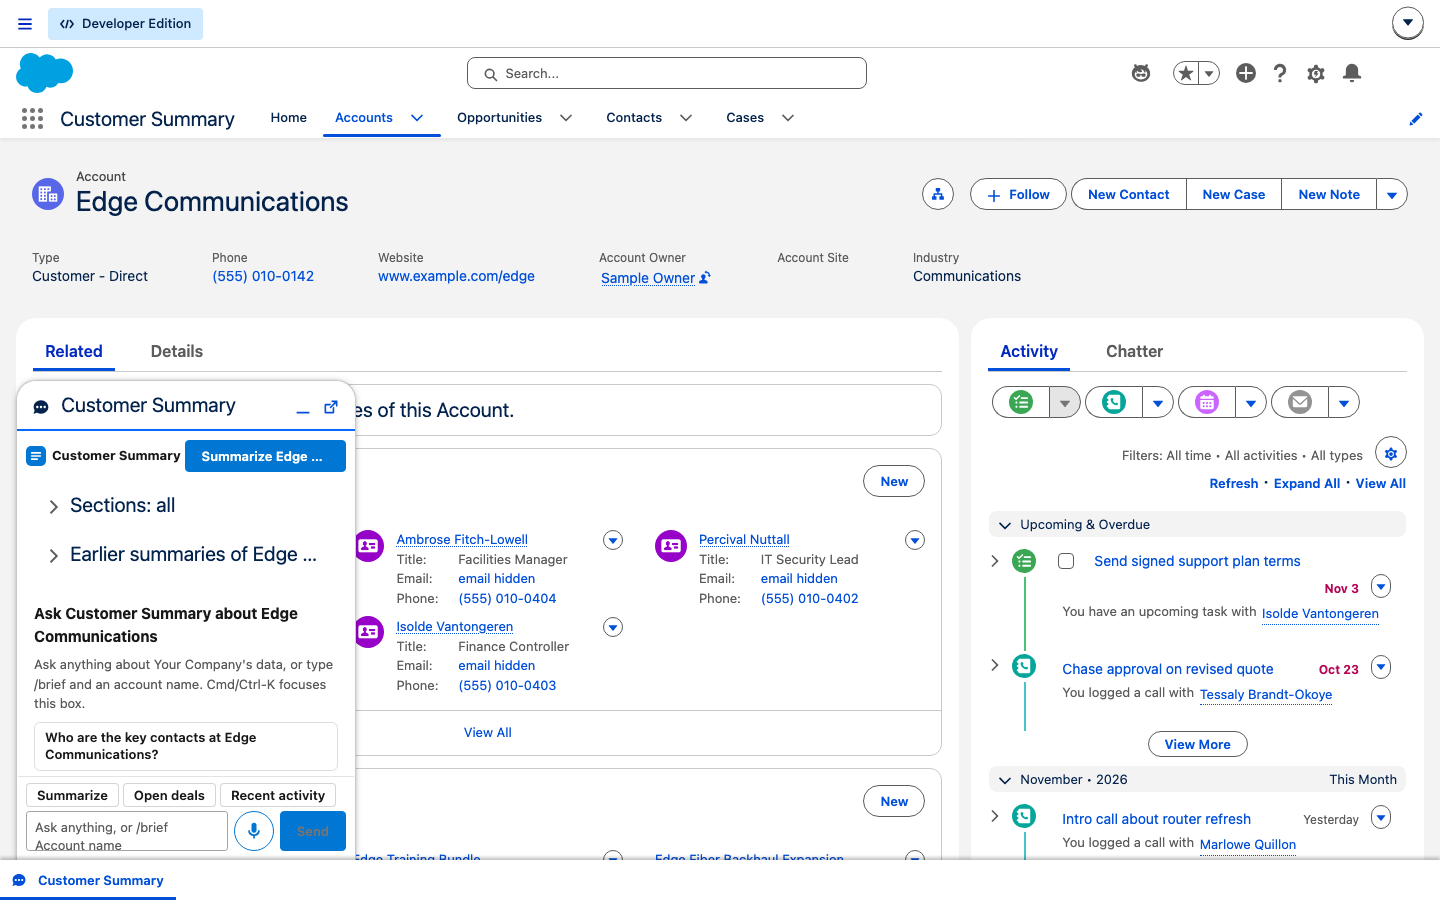
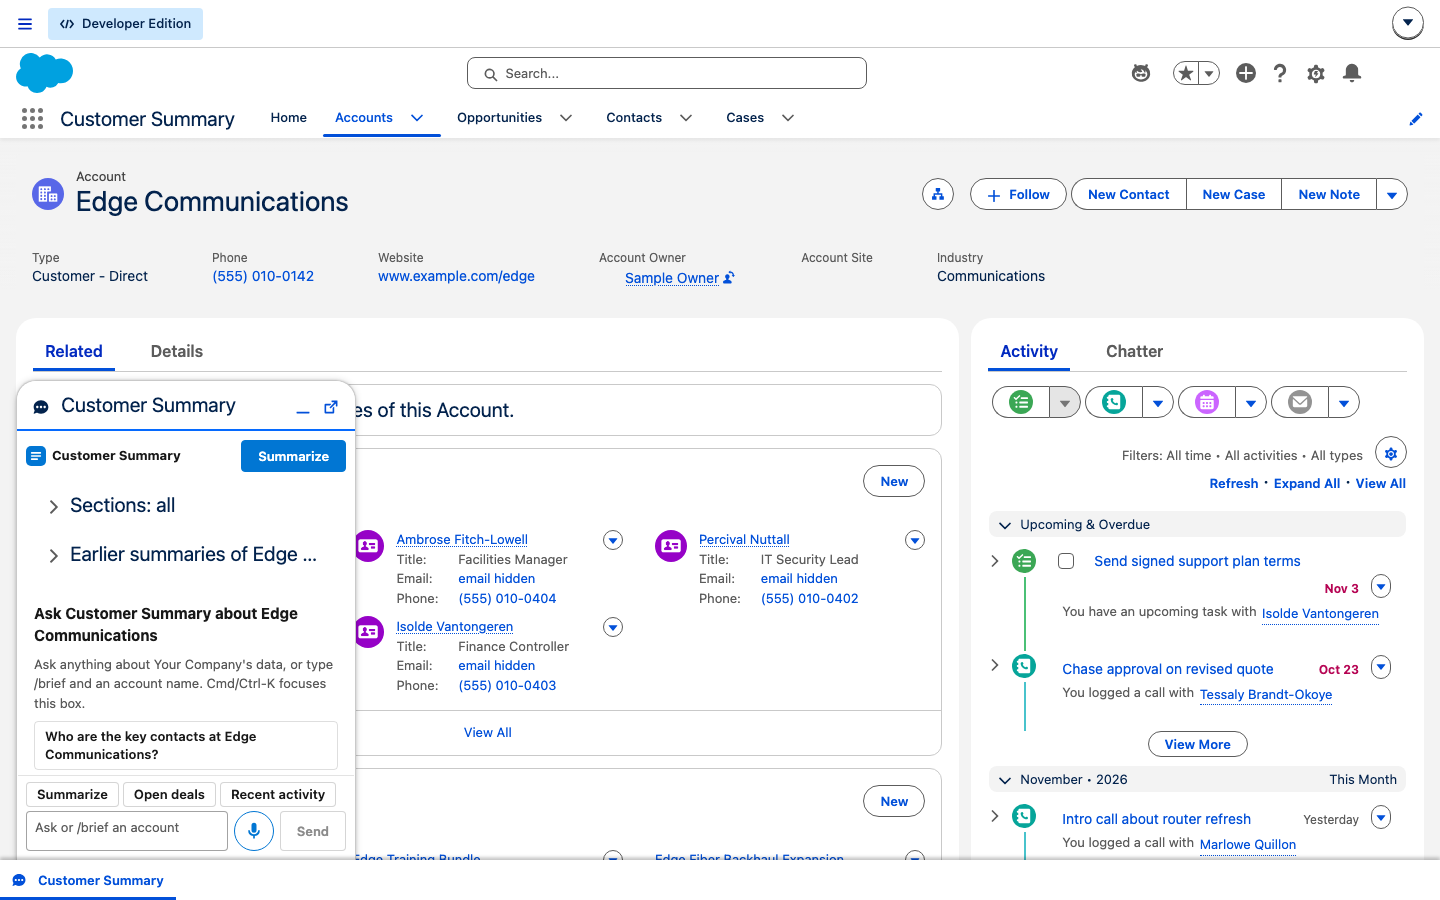
FE-12 attempt 3: radius from --cs-radius, short placeholder, plain disabled Send, "Summarize" label
- .abp-suggestion takes its radius from --cs-radius; a Jest check fails on any
  border-radius that is not var(--cs-radius...) or 50%.
- Composer placeholder is "Ask or /brief an account", one line at 340px.
- Disabled Send drops the brand fill: surface background, faint ink border, muted label.
- The header button shows "Summarize"; aria-label and title keep "Summarize <account>".
- Recaptured fr2-conversation-core.png; manifest row updated.

diff --git a/force-app/main/default/lwc/customerSummaryConversation/__tests__/customerSummaryConversation.test.js b/force-app/main/default/lwc/customerSummaryConversation/__tests__/customerSummaryConversation.test.js
@@ -392,6 +392,25 @@ describe('c-customer-summary-conversation', () => {
         it('lets the composer shrink: min-width 0', () => {
             expect(SOURCE_CSS).toMatch(/\.abp-composer\s*\{[^}]*min-width:\s*0/);
         });
+
+        it('uses the short placeholder that matches its accessible name', async () => {
+            const el = await mount();
+            expect(composer(el).getAttribute('placeholder')).toBe('Ask or /brief an account');
+            expect(composer(el).getAttribute('aria-label')).toBe('Ask or /brief an account');
+        });
+
+        it('drops the brand fill from Send while it is disabled', async () => {
+            const el = await mount();
+            expect($(el, '.abp-send').disabled).toBe(true);
+            const rule = SOURCE_CSS.match(/\.abp-send\.slds-button_brand:disabled[^{]*\{([^}]*)\}/);
+            expect(rule).not.toBeNull();
+            const body = rule[1];
+            expect(body).toMatch(/background-color:\s*var\(--cs-color-surface, #ffffff\)/);
+            expect(body).toMatch(/border:\s*1px solid color-mix\(in srgb, var\(--cs-color-ink, #181818\) 18%, transparent\)/);
+            expect(body).toMatch(/color:\s*color-mix\(in srgb, var\(--cs-color-ink, #181818\) 50%, var\(--cs-color-surface, #ffffff\)\)/);
+            expect(body).toMatch(/cursor:\s*default/);
+            expect(body).not.toMatch(/--cs-color-primary/);
+        });
     });
 
     describe('quick actions', () => {
@@ -444,6 +463,20 @@ describe('c-customer-summary-conversation', () => {
         it('keeps the mic round through --cs-radius, and turns motion off for reduced motion', () => {
             expect(SOURCE_CSS).toMatch(/c-customer-summary-voice-input\s*\{[^}]*--cs-radius:\s*50%/);
             expect(SOURCE_CSS).toMatch(/@media\s*\(prefers-reduced-motion:\s*reduce\)/);
+        });
+
+        it('takes every border-radius from --cs-radius, apart from 50% shapes', () => {
+            const values = [...SOURCE_CSS.matchAll(/border-radius:\s*([^;]+);/g)].map((m) => m[1].trim());
+            expect(values.length).toBeGreaterThan(0);
+            values.forEach((value) => expect(value).toMatch(/^(var\(--cs-radius\b.*\)|50%)$/));
+        });
+
+        it('the header button shows "Summarize" and is named for the account', async () => {
+            const el = await mountOnAccount();
+            const brief = $(el, '.abp-bar .abp-brief');
+            expect(brief.textContent).toBe('Summarize');
+            expect(brief.getAttribute('aria-label')).toBe('Summarize Acme');
+            expect(brief.getAttribute('title')).toBe('Summarize Acme');
         });
     });
 

diff --git a/force-app/main/default/lwc/customerSummaryPanel/__tests__/customerSummaryPanel.test.js b/force-app/main/default/lwc/customerSummaryPanel/__tests__/customerSummaryPanel.test.js
@@ -267,7 +267,7 @@ describe('c-customer-summary-panel', () => {
             lateA.resolve({ status: 'RESOLVED', accountId: ACME, accountName: 'Acme' });
             await flush();
 
-            expect($(el, '.abp-bar-row .abp-brief').textContent).toBe('Summarize Beta');
+            expect($(el, '.abp-bar-row .abp-brief').getAttribute('aria-label')).toBe('Summarize Beta');
             expect(history).toHaveBeenCalledTimes(1);
             expect(history).toHaveBeenCalledWith({ accountId: BETA });
         });
@@ -815,8 +815,9 @@ describe('c-customer-summary-panel', () => {
             const rows = bar.querySelectorAll('.abp-bar-row');
             expect(rows).toHaveLength(1);
             const brief = rows[0].querySelector('button.abp-brief');
-            // A native button named by its text: the label may truncate on screen, the name does not.
-            expect(brief.textContent).toBe('Summarize Acme');
+            // A native button: it shows "Summarize"; its aria-label and title keep the account.
+            expect(brief.textContent).toBe('Summarize');
+            expect(brief.getAttribute('aria-label')).toBe('Summarize Acme');
             expect(brief.getAttribute('title')).toBe('Summarize Acme');
             expect(brief.querySelector('.slds-truncate')).not.toBeNull();
             // Nothing else is pinned: the include chips and the history list are not in the bar.
@@ -1036,7 +1037,7 @@ describe('c-customer-summary-panel', () => {
             const rows = $$(el, '.abp-bar .abp-bar-row');
             expect(rows).toHaveLength(1);
             expect(rows[0].querySelector('.abp-brand')).not.toBeNull();
-            expect(rows[0].querySelector('button.abp-brief').textContent).toBe('Summarize Acme');
+            expect(rows[0].querySelector('button.abp-brief').getAttribute('aria-label')).toBe('Summarize Acme');
         });
 
         it('is accessible with the brand settings applied', async () => {

diff --git a/force-app/main/default/lwc/customerSummaryConversation/customerSummaryConversation.html b/force-app/main/default/lwc/customerSummaryConversation/customerSummaryConversation.html
@@ -17,9 +17,9 @@
                     </div>
                 </template>
                 <template lwc:if={isAccountPage}>
-                    <!-- A native button: its text truncates when the row is short, and stays its accessible name. -->
-                    <button class="slds-button slds-button_brand abp-brief" title={briefButtonLabel}
-                        onclick={handleBriefThisAccount}><span class="slds-truncate">{briefButtonLabel}</span></button>
+                    <!-- A native button: it shows "Summarize"; its accessible name and tooltip keep the account. -->
+                    <button class="slds-button slds-button_brand abp-brief" title={briefButtonLabel} aria-label={briefButtonLabel}
+                        onclick={handleBriefThisAccount}><span class="slds-truncate">Summarize</span></button>
                 </template>
             </div>
         </div>
@@ -331,7 +331,7 @@
                 </template>
             </div>
             <div class="abp-composer-row">
-                <textarea class="abp-composer" aria-label="Ask or /brief an account" placeholder="Ask anything, or /brief Account name"
+                <textarea class="abp-composer" aria-label="Ask or /brief an account" placeholder="Ask or /brief an account"
                     rows="1" oninput={handleComposerInput} onkeydown={handleComposerKeydown}
                     onkeyup={handleComposerKeyOther} onkeypress={handleComposerKeyOther}></textarea>
                 <c-customer-summary-voice-input class="abp-mic" agent-name={micAgentName}

diff --git a/force-app/main/default/lwc/customerSummaryConversation/customerSummaryConversation.css b/force-app/main/default/lwc/customerSummaryConversation/customerSummaryConversation.css
@@ -364,7 +364,7 @@ h2,
     line-height: 1.35;
     color: var(--cs-color-ink, #181818);
     border: 1px solid color-mix(in srgb, var(--cs-color-ink, #181818) 14%, transparent);
-    border-radius: 6px;
+    border-radius: var(--cs-radius, 0.25rem);
     transition: background-color 160ms cubic-bezier(0.2, 0, 0, 1);
 }
 
@@ -452,6 +452,15 @@ c-customer-summary-voice-input {
     background-color: var(--cs-color-primary, #0176d3);
     border-color: var(--cs-color-primary, #0176d3);
     border-radius: var(--cs-radius, 0.25rem);
+}
+
+/* Disabled Send drops the brand fill: the surface, a faint ink border and a muted label. */
+.abp-send.slds-button_brand:disabled,
+.abp-send.slds-button_brand:disabled:hover {
+    background-color: var(--cs-color-surface, #ffffff);
+    border: 1px solid color-mix(in srgb, var(--cs-color-ink, #181818) 18%, transparent);
+    color: color-mix(in srgb, var(--cs-color-ink, #181818) 50%, var(--cs-color-surface, #ffffff));
+    cursor: default;
 }
 
 /* Reduced motion: no pulse, no transitions, no smooth scrolling. */

diff --git a/docs/assets/MANIFEST.md b/docs/assets/MANIFEST.md
@@ -36,7 +36,7 @@ the pages still link them, until the chapter cards and `OPS-36` rewrite those pa
 | `e2e-report.png` | The Playwright HTML report for a full run: 8 of 8 passed, 3.1 minutes | [README](../../README.md), [03](../patterns/03-hotkey-panel.md), [08](../patterns/08-test-and-release-lifecycle.md) | captured | 1600x1800 | 274 KB |
 | `brand-swap-before.png` | The open panel on Edge Communications with the shipped Default brand record: the plain blue logo mark and "Customer Summary" at the start of the bar, the blue Summarize button, and the empty state "Ask anything about Your Company's data" | [10](../patterns/10-brand-and-theming.md) | captured | 1520x1500 | 184 KB |
 | `brand-swap-after.png` | The same panel with the record swapped to the made-up Northwind Health: the green N monogram and "Northwind Assist" in Georgia, the green Summarize button, the pale green panel, Verdana text and the empty state "Ask anything about Northwind Health's data"; the utility title still reads "Customer Summary" | [10](../patterns/10-brand-and-theming.md) | captured | 1520x1500 | 185 KB |
-| `fr2-conversation-core.png` | FE-12: the whole window on Edge Communications with the panel open on the new conversation component in its empty state: the brand bar and Summarize button, the Sections and Earlier summaries accordions, "Ask Customer Summary about Edge Communications", a suggestion, the Summarize, Open deals and Recent activity chips, and the composer with the mic and Send | FE-12 hand-back (no page yet) | captured | 1440x900 | 187 KB |
+| `fr2-conversation-core.png` | FE-12: the whole window on Edge Communications with the panel open on the new conversation component in its empty state: the brand bar and its "Summarize" button (named "Summarize Edge Communications"), the Sections and Earlier summaries accordions, "Ask Customer Summary about Edge Communications", a suggestion, the Summarize, Open deals and Recent activity chips, and the composer ("Ask or /brief an account" on one line) with the mic and the disabled Send on the surface colour | FE-12 hand-back (no page yet) | captured | 1440x900 | 185 KB |
 | `fr2-spike-mirrored-bar.png` | OPS-29 spike: the bottom 200 px of a record page with the utility bar mirrored, "Phone (softphone stand-in)" and "Surface Spike" at the bottom right and the "Ask Customer Summary ⌘K" launcher just above them | [fr2-surfaces-spike](../research/fr2-surfaces-spike.md) | captured | 1440x200 | 34 KB |
 | `fr2-spike-launcher.png` | OPS-29 spike: a record page in the FR2 Surface Spike app, the utility bar at the default left with the softphone stand-in, and the launcher at the bottom right | [fr2-surfaces-spike](../research/fr2-surfaces-spike.md) | captured | 1440x900 | 171 KB |
 | `fr2-spike-compact.png` | OPS-29 spike: the 420 px compact window opened by Cmd-K above the launcher | [fr2-surfaces-spike](../research/fr2-surfaces-spike.md) | captured | 1440x900 | 137 KB |
